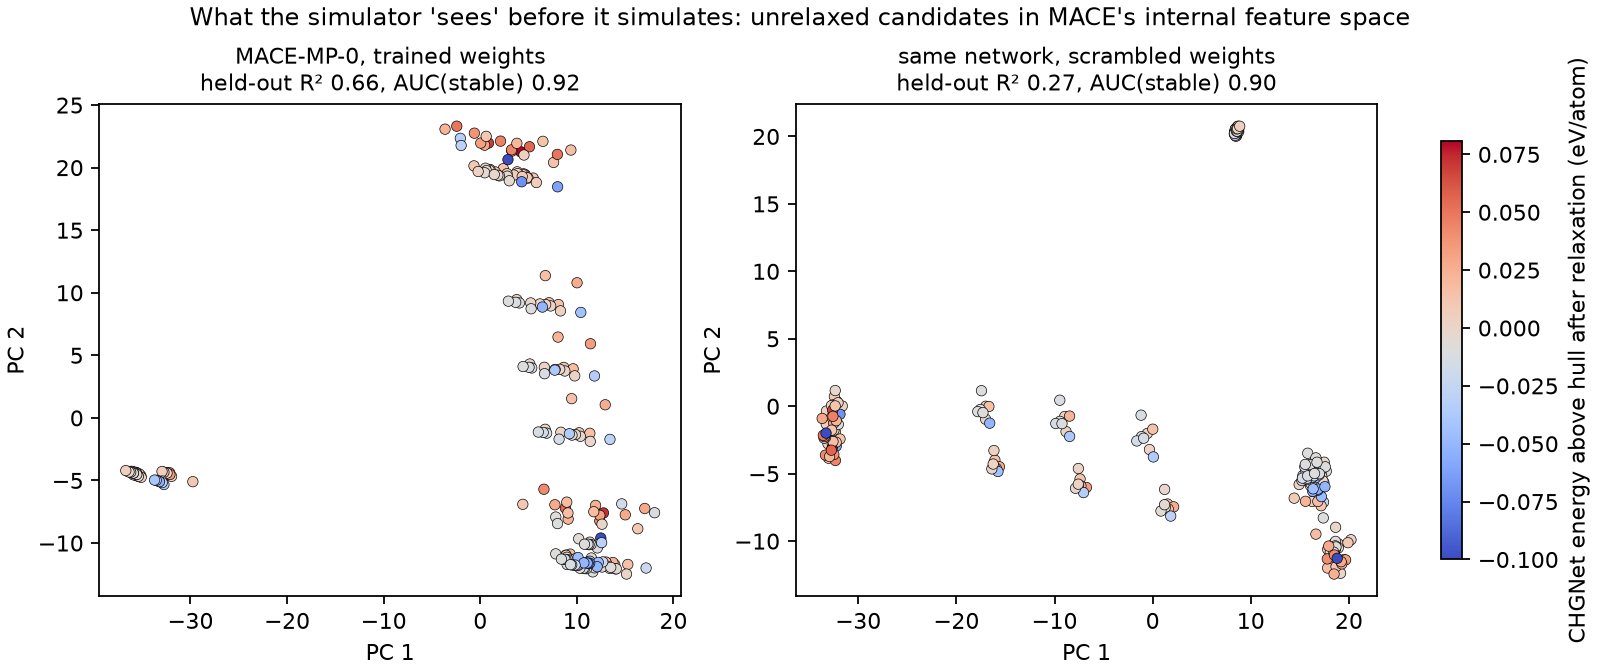
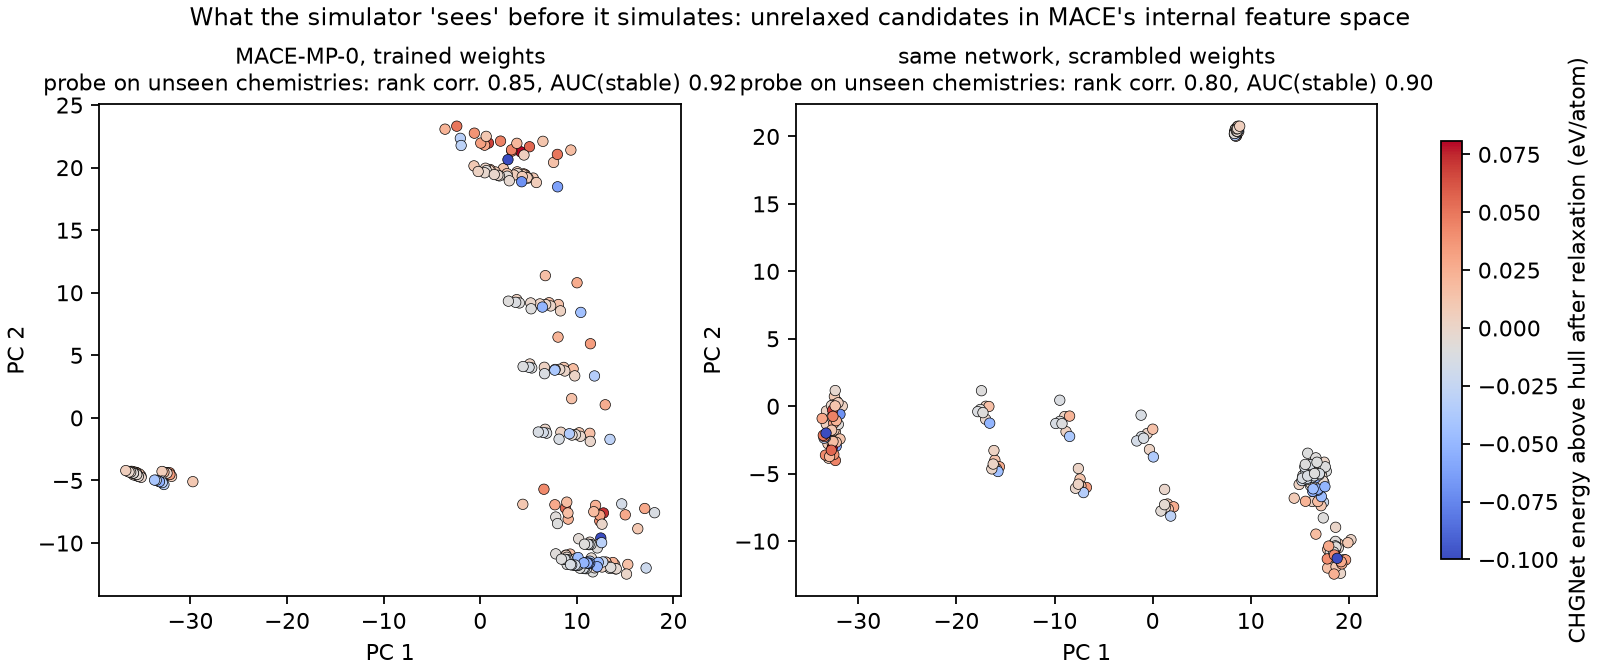
fig3: title with rank correlation and AUC, matching the write-up

Changed region(s): [[0.0312, 0.0938, 0.9062, 0.1562]]

diff --git a/src/latent.py b/src/latent.py
@@ -164,7 +164,8 @@ def _figure(ids, y, reps, out) -> None:
         Z = PCA(2, random_state=0).fit_transform(StandardScaler().fit_transform(reps[name]))
         sc = ax.scatter(Z[:, 0], Z[:, 1], c=np.clip(y, -0.1, 0.2), cmap="coolwarm", s=22, edgecolor="k", lw=0.3)
         p = out["probe"][name]
-        ax.set_title(f"{title}\nheld-out R² {p['r2_mean']:.2f}, AUC(stable) {p['auc_hit_mean']:.2f}", fontsize=10)
+        ax.set_title(f"{title}\nprobe on unseen chemistries: rank corr. {p['spearman_mean']:.2f}, "
+                     f"AUC(stable) {p['auc_hit_mean']:.2f}", fontsize=10)
         ax.set_xlabel("PC 1")
         ax.set_ylabel("PC 2")
     cb = fig.colorbar(sc, ax=axes, shrink=0.85)
